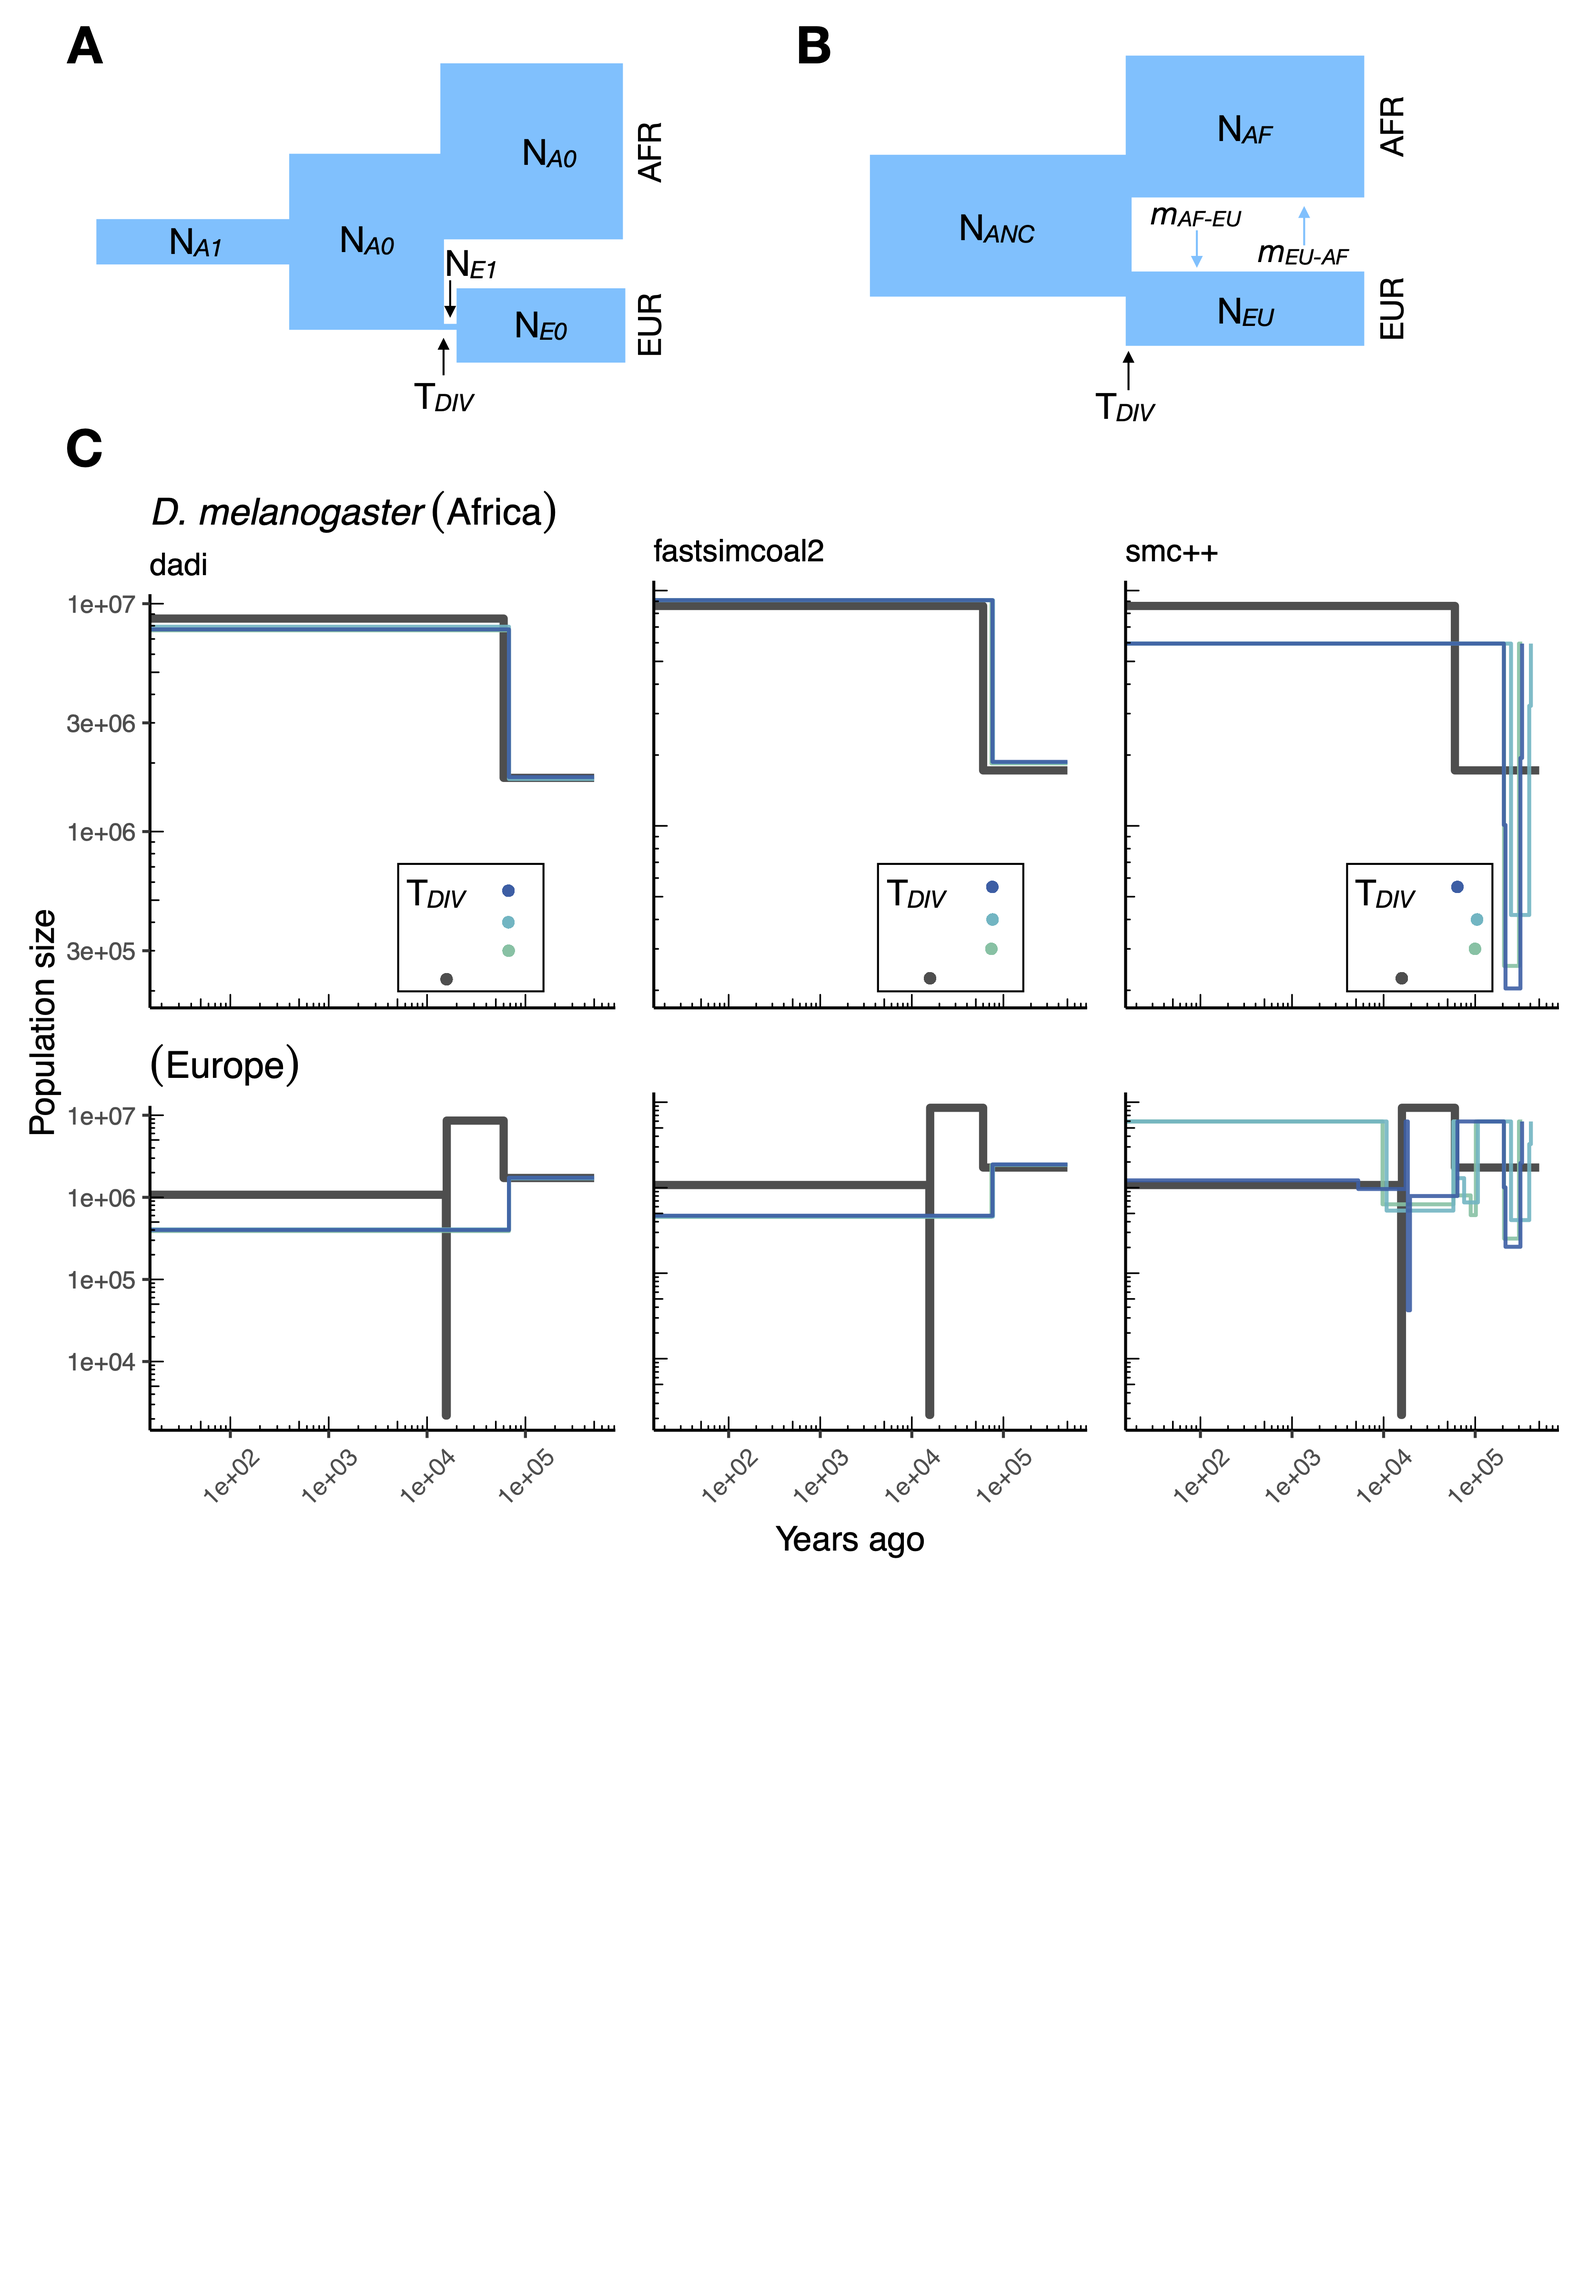
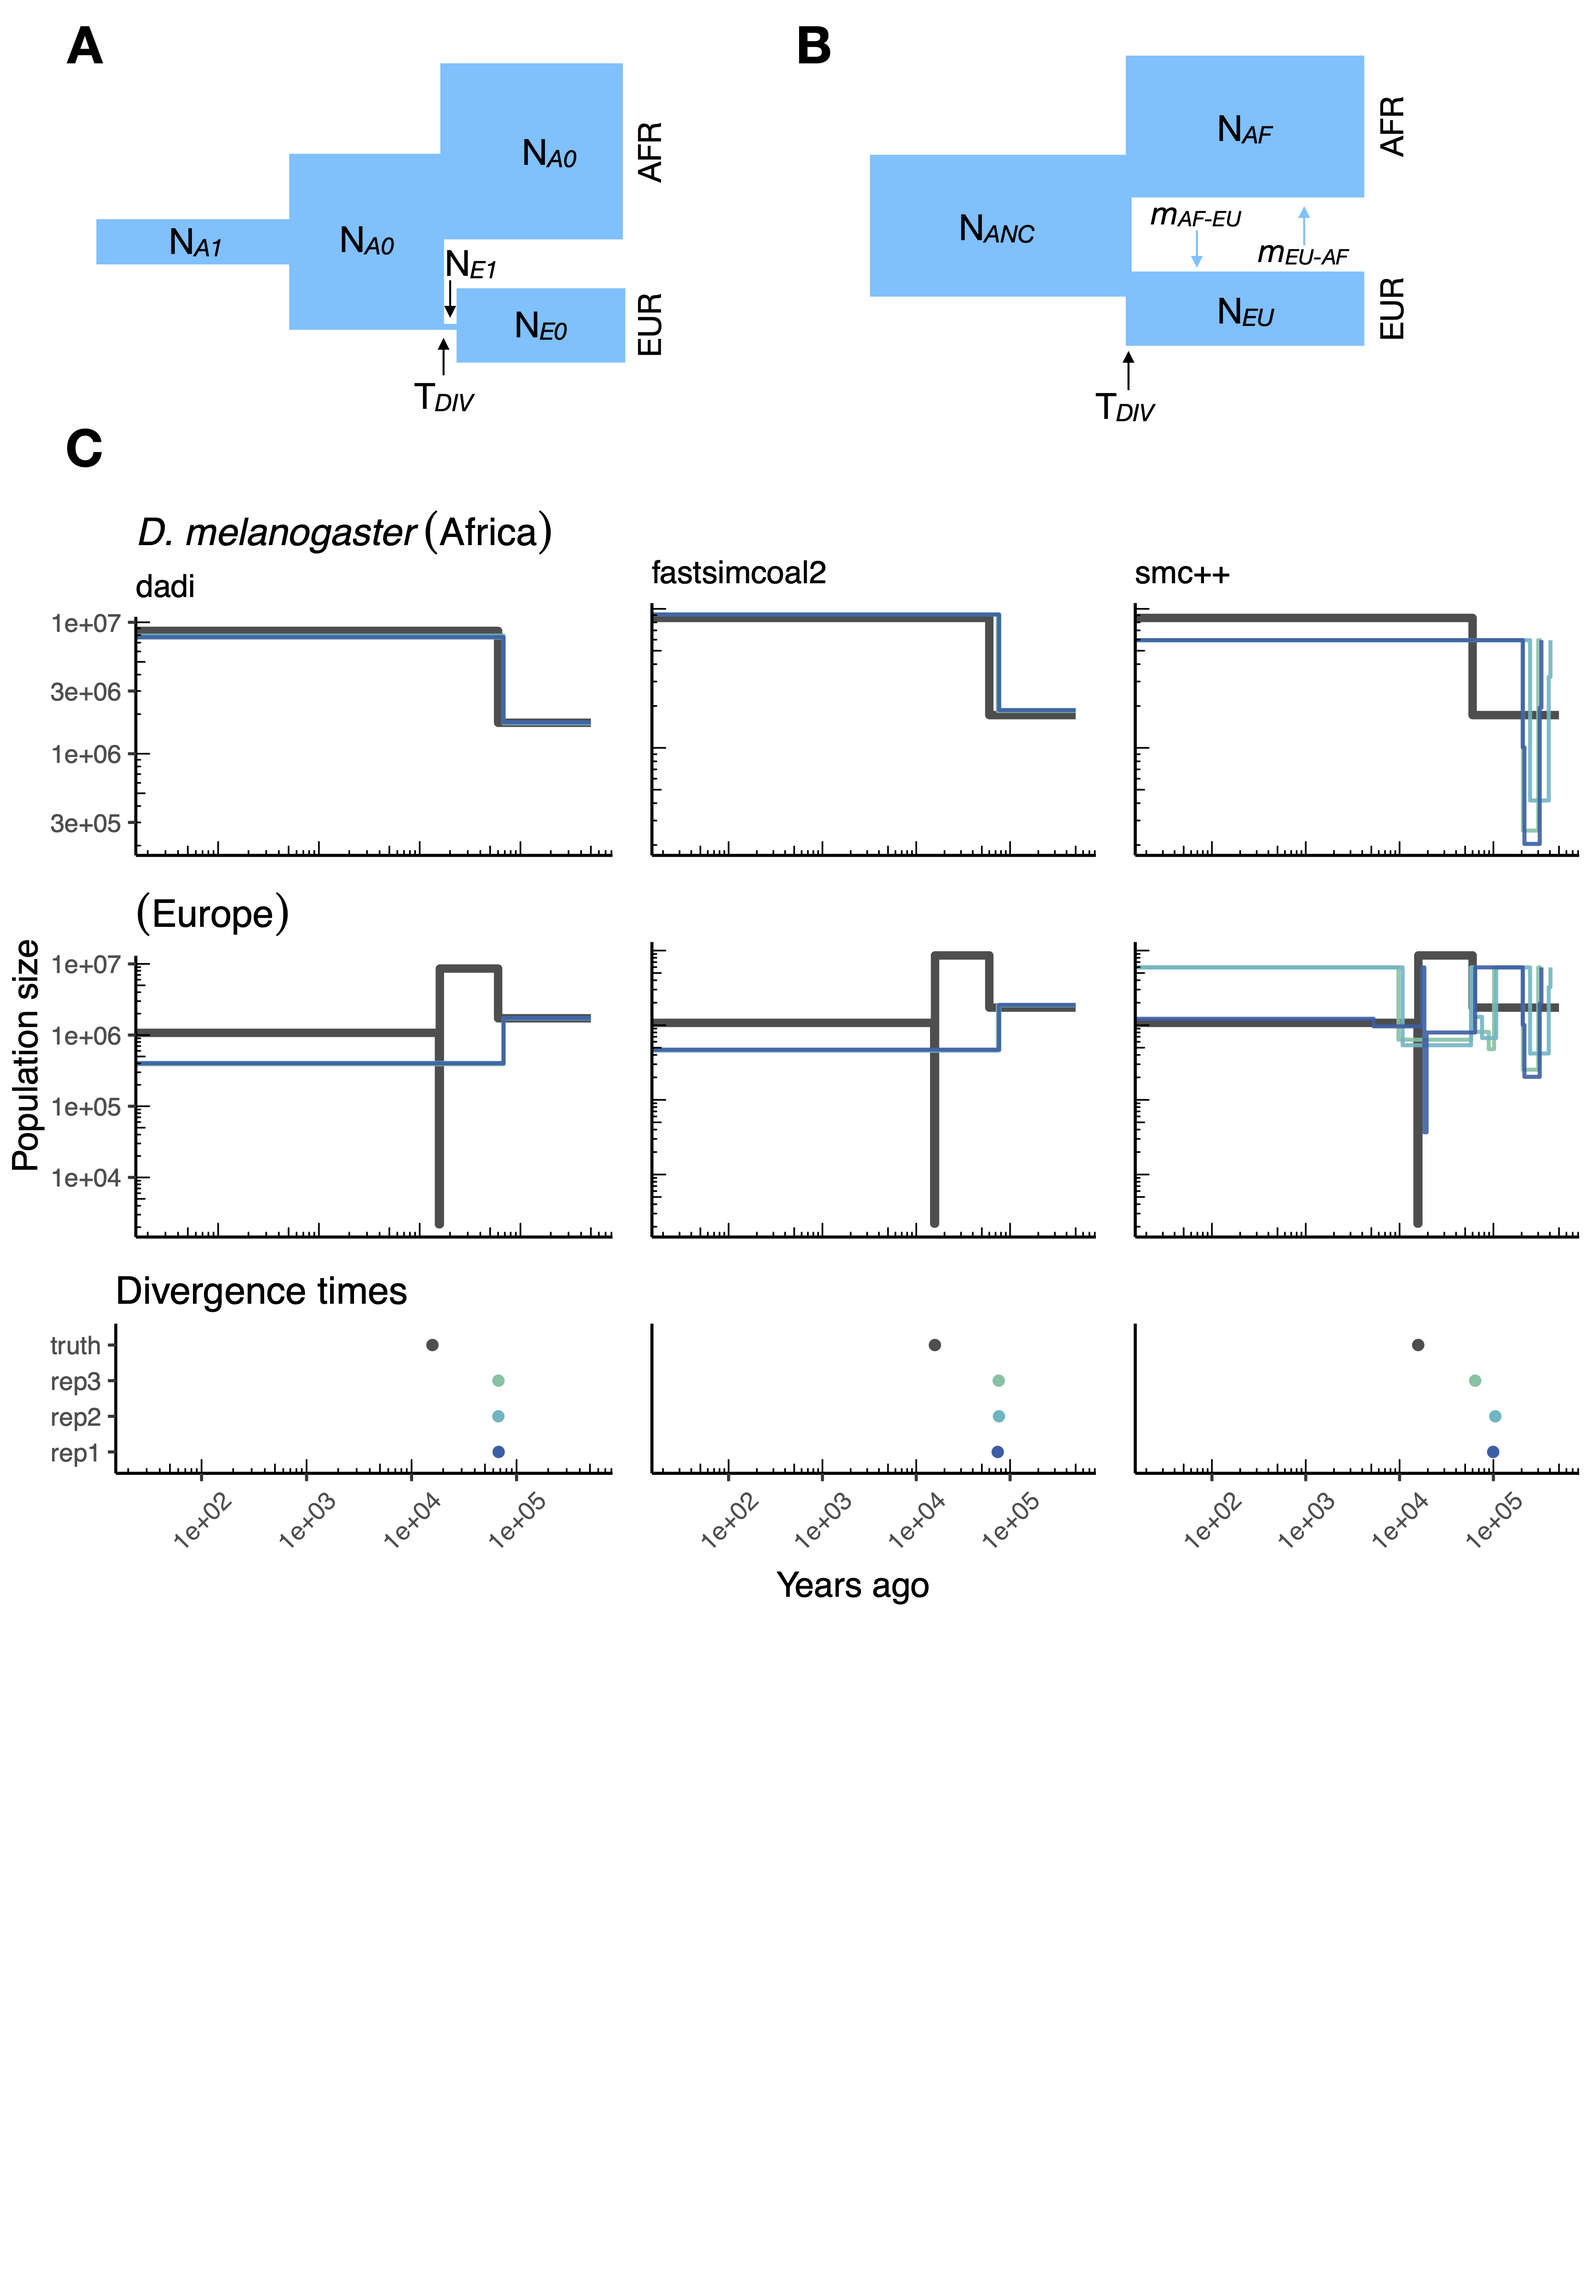
first pass at two pop methods

diff --git a/popSimManu.tex b/popSimManu.tex
@@ -485,13 +485,81 @@ to this point. Further details of our QC process can be found in our
 
 \subsection*{Workflow for analysis of simulated data}
 Snakemake pipeline for 1 pop models
-Snakemake pipeline for 2 pop models
 
- In general, used default
-settings and did not attempt to optimize \dadi or \fastsimcoal runs Used Snakemake to
-manage pipeline for two population analysis Results from two population pipeline
-demonstrate that the different methods tested were generally able to recover the
-simulated parameters
+
+
+\subsection*{Workflow for two population analysis}
+Our goal for the two population analysis pipeline was to explore two population inference
+on some of the multi-population demographic models implemented in \stdpopsim.
+The models we examined include the human Gutenkunst model (\cite{gutenkunst2009inferring}) as
+well as the \emph{Drosophila} Li & Stephan model (\cite{li2006inferring}). The human
+model is a three population model (Africa, Europe, and Asia) including post-divergence
+migration and exponential growth (Figure \ref{fig:IM_popn_human}C), whereas the
+\emph{Drosophila} model is a two population model (Africa and Europe) with no post-divergence
+migration and constant population sizes (Figure Sx).
+
+To conduct inference on these models, we implemented three commonly-used approaches:
+\dadi (\cite{gutenkunst2009inferring}), \fastsimcoal2 (\cite{excoffier2013robust}),
+and \smcpp (\cite{terhorst2017robust}). Our aim was not to exhaustively
+test the performance of these methods, but rather to explore their behavior
+in two different inference scenarios and demonstrate the potential for this resource to
+eventually be used for more in-depth benchmarking. As a result, these methods were used
+generally with default settings and we did not attempt to optimize their performance or fit
+parameter-rich demographic models. As with the single population inference pipeline,
+we developed a \texttt{snakemake} (\cite{koster2012snakemake}) workflow to manage
+our inference pipeline and maintain reproducibility.
+
+For both \dadi and \fastsimcoal2, our general approach was to fit a two population
+isolation with migration (IM) model with constant population sizes to the simulated
+data from the human and \emph{Drosophila} models. This IM model contains six parameters:
+the ancestral population size, the size of population 1 after the split, the size of
+population 2 after the split, the divergence time, and two migration rate parameters.
+Importantly, this meant that for both the human and \emph{Drosophila} inference, the
+fitted model did not match the simulated model (Figure \ref{fig:IM_popn_human}C and Sx).
+In the human case, we therefore performed inference solely on the Africa
+and Europe populations, meaning that the Asia population functioned as a ghost
+population that was ignored by our inference. Our motivation for fitting this simple
+IM model was to mimic the typical approach of two population inference on empirical
+data, where the user is not aware of the 'true' underlying demography and the inference
+model is often misspecified. To ground-truth our inference approach, we also conducted
+inference on a generic IM model that was identical to the model used for inference.
+
+To perform inference, we began by running simulations under each model, running
+three replicates to inspect for inter-replicate variability. For humans, we ran
+whole genome simulations (chromosomes 1-22) under the Gutenkunst model (\cite{gutenkunst2009inferring}),
+using the HapMap II recombination map (\cite{international2007second}) and taking 20
+samples each from the Europe and Africa populations. For \emph{Drosophila},
+we simulated 3 Mb of chromosome 2R under the Li & Stephan model (\cite{li2006inferring}),
+using the map inferred by \cite{comeron2012many} and taking 50 samples from each of
+the Africa and Europe populations. We tried to run whole genome simulations under
+this model but after XXXX amount of time... (JRA fill in details here). For the generic
+IM simulations, we used the human genome (chromosomes 1-22) and HapMap II recombination
+map (\cite{international2007second}) and took 20 samples per population.
+
+Following simulation, we outputted tree sequences and masked low recombination
+regions using the same approach described for the single population pipeline above. We
+converted tree sequences into a two dimensional site frequency spectrum for all
+chromosomes in the appropriate format for \dadi and \fastsimcoal2. For each simulation
+replicate, we performed 10 runs of \dadi and \fastsimcoal2 and checked for convergence.
+Detailed settings for \dadi and \fastsimcoal2 can be found in the Snakefile
+on the popgensims/analysis GitHub repository (https://github.com/popgensims/analysis). The parameter
+estimates from the top run from each simulation replicate are shown in Figures \ref{fig:IM_popn_human}C and Sx.
+
+For \smcpp , we converted the tree sequences into vcf format and performed inference
+with default settings. Importantly, \smcpp assumes no migration post-divergence, so
+here again the inference model does not exactly match the simulated model for the
+human model that does include migration. However, because \smcpp allows
+for continuous population size changes, it is better equipped to capture many of the
+more complex aspects of the simulated demographic models (e.g., exponential growth).
+
+
+To visualize our results, we plotted the inferred population size trajectories
+for each simulation replicate along side the true (census) population sizes
+(Figures \ref{fig:IM_popn_human}C Sx). Here, unlike the single population pipeline,
+ we focus on census size rather than the inverse coalescence rate as the 'true' population size.
+
+
+
 
 
 % \subsection*{Extra text}
